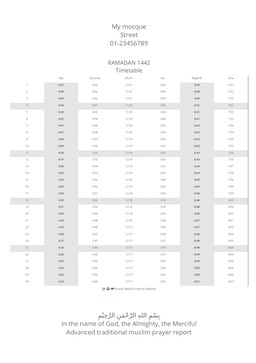
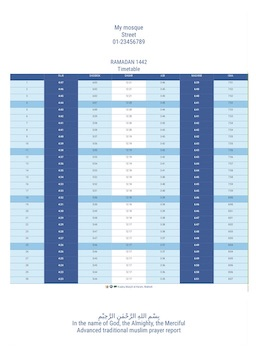
APB-242 changed default themes, day 10001, month 20001 and 20006 and 20001 switched places

diff --git a/apps/app2/css/app_report.css b/apps/app2/css/app_report.css
@@ -600,6 +600,9 @@
 	line-height: 3.75pt;
 }
 /*theme specific month fontsize and lineheight fixes*/
+#prayertable_year .theme_month_20001 #timetable {
+	line-height: 3pt !important;
+}
 #prayertable_year .theme_month_20002 #timetable {
 	line-height: 3pt !important;
 }
@@ -610,9 +613,6 @@
 	font-size: 2pt !important;
 }
 #prayertable_year .theme_month_20005 #timetable {
-	line-height: 3pt !important;
-}
-#prayertable_year .theme_month_20006 #timetable {
 	line-height: 3pt !important;
 }
 #prayertable_year .theme_month_20007 #timetable {
@@ -808,66 +808,96 @@
 /*THEME 1*/
 /*DISPLAY FONT*/
 .theme_month_20001.font_arabic_sans_kufi .display_font{
-	font-family: var(--global_font_arabic_sans_kufi);
+	font-family: 'Roboto Condensed', var(--global_font_arabic_sans_kufi);
 }
 .theme_month_20001.font_arabic_kufi .display_font{
-	font-family: var(--global_font_arabic_kufi);
+	font-family: 'Roboto Condensed', var(--global_font_arabic_kufi);
 }
 .theme_month_20001.font_arabic_nashk .display_font{
-	font-family: var(--global_font_arabic_nashk);
+	font-family: 'Roboto Condensed', var(--global_font_arabic_nashk);
 }
 .theme_month_20001.font_arabic_nastaliq .display_font{
-	font-family: var(--global_font_arabic_nastaliq);
+	font-family: 'Roboto Condensed', var(--global_font_arabic_nastaliq);
 }
 .theme_month_20001.font_arabic_ui .display_font{
-	font-family: var(--global_font_arabic_ui);
+	font-family: 'Roboto Condensed', var(--global_font_arabic_ui);
 }
 /*DEFAULT FONT*/
 .theme_month_20001.font_arabic_sans_kufi .default_font{
-	font-family: var(--global_font_arabic_sans_kufi);
+	font-family: 'Roboto Condensed', var(--global_font_arabic_sans_kufi);
 }
 .theme_month_20001.font_arabic_kufi .default_font{
-	font-family: var(--global_font_arabic_kufi);
+	font-family: 'Roboto Condensed', var(--global_font_arabic_kufi);
 }
 .theme_month_20001.font_arabic_nashk .default_font{
-	font-family: var(--global_font_arabic_nashk);
+	font-family: 'Roboto Condensed', var(--global_font_arabic_nashk);
 }
 .theme_month_20001.font_arabic_nastaliq .default_font{
-	font-family: var(--global_font_arabic_nastaliq);
+	font-family: 'Roboto Condensed', var(--global_font_arabic_nastaliq);
 }
 .theme_month_20001.font_arabic_ui .default_font{
-	font-family: var(--global_font_arabic_ui);
+	font-family: 'Roboto Condensed', var(--global_font_arabic_ui);
 }
 .theme_month_20001 {
 	background-color: white;
 	color: #404040;
 }
-/*Timetable*/
-.theme_month_20001 #timetable{
-	border : 0px !important;
+.theme_month_20001 #prayertable_month_header {
+	color: #2a5d99;
+}
+.theme_month_20001 #timetable_header {
+	color: #2a5d99;
+}
+.theme_month_20001 #timetable .prayertable_month_header-row .timetable_col_header {
+	background-color: #2a5d99 !important;
+	color: white !important;
+	text-transform: uppercase;
+}
+.theme_month_20001 .timetable_row:last-child {
+	border-bottom: none
+}
+.theme_month_20001 #timetable .timetable_col_header {
+	border-bottom: 0.5px solid #2a5d99;
+}
+.theme_month_20001 #timetable .timetable_col {
+	border-bottom: 0.5px solid #2a5d99;
 }
 .theme_month_20001 .timetable_row.prayertable_month_highlight_row .timetable_col {
-	background-color: #e6e6e6;
+	background-color: #7bcae9 !important;
 }
 .theme_month_20001 .timetable_row.prayertable_month_day_01-10-row .timetable_col {
-	background-color: #e6e6e6 !important;
+	background-color: #c9edf7 !important;
 }
 .theme_month_20001 .timetable_row.prayertable_month_day_11-20-row .timetable_col {
 	background-color: #FFF !important;
 }
 .theme_month_20001 .timetable_row.prayertable_month_day_21-30-row .timetable_col {
-	background-color: #e6e6e6 !important;
+	background-color: #7bcae9 !important;
 }
-/*notes*/
 .theme_month_20001 #timetable .prayertable_month_notes {
 	background-color: white !important;
 }
-
+.theme_month_20001 #timetable .timetable_col:nth-child(odd) {
+	background-color: #c9edf7;
+	color: #404040;
+}
+.theme_month_20001 #timetable .timetable_col:nth-child(even) {
+	background-color: #FFF;
+}
 .theme_month_20001 #timetable .timetable_col.prayertable_fast_start {
-	background-color: #e6e6e6 !important;
+	background-color: #2a5d99 !important;
+	color: white;
 }
 .theme_month_20001 #timetable .timetable_col.prayertable_fast_end {
-	background-color: #e6e6e6 !important;
+	background-color: #2a5d99 !important;
+	color: white;
+}
+.theme_month_20001 #timetable_footer {
+	color: #2a5d99;
+}
+/*Footer*/
+.theme_month_20001 #prayertable_month_footer {
+	color : #2a5d99;
 }
 
 /*THEME 2*/
@@ -1223,96 +1253,66 @@
 /*THEME 6*/
 /*DISPLAY FONT*/
 .theme_month_20006.font_arabic_sans_kufi .display_font{
-	font-family: 'Roboto Condensed', var(--global_font_arabic_sans_kufi);
+	font-family: var(--global_font_arabic_sans_kufi);
 }
 .theme_month_20006.font_arabic_kufi .display_font{
-	font-family: 'Roboto Condensed', var(--global_font_arabic_kufi);
+	font-family: var(--global_font_arabic_kufi);
 }
 .theme_month_20006.font_arabic_nashk .display_font{
-	font-family: 'Roboto Condensed', var(--global_font_arabic_nashk);
+	font-family: var(--global_font_arabic_nashk);
 }
 .theme_month_20006.font_arabic_nastaliq .display_font{
-	font-family: 'Roboto Condensed', var(--global_font_arabic_nastaliq);
+	font-family: var(--global_font_arabic_nastaliq);
 }
 .theme_month_20006.font_arabic_ui .display_font{
-	font-family: 'Roboto Condensed', var(--global_font_arabic_ui);
+	font-family: var(--global_font_arabic_ui);
 }
 /*DEFAULT FONT*/
 .theme_month_20006.font_arabic_sans_kufi .default_font{
-	font-family: 'Roboto Condensed', var(--global_font_arabic_sans_kufi);
+	font-family: var(--global_font_arabic_sans_kufi);
 }
 .theme_month_20006.font_arabic_kufi .default_font{
-	font-family: 'Roboto Condensed', var(--global_font_arabic_kufi);
+	font-family: var(--global_font_arabic_kufi);
 }
 .theme_month_20006.font_arabic_nashk .default_font{
-	font-family: 'Roboto Condensed', var(--global_font_arabic_nashk);
+	font-family: var(--global_font_arabic_nashk);
 }
 .theme_month_20006.font_arabic_nastaliq .default_font{
-	font-family: 'Roboto Condensed', var(--global_font_arabic_nastaliq);
+	font-family: var(--global_font_arabic_nastaliq);
 }
 .theme_month_20006.font_arabic_ui .default_font{
-	font-family: 'Roboto Condensed', var(--global_font_arabic_ui);
+	font-family: var(--global_font_arabic_ui);
 }
 .theme_month_20006 {
 	background-color: white;
 	color: #404040;
 }
-.theme_month_20006 #prayertable_month_header {
-	color: #2a5d99;
-}
-.theme_month_20006 #timetable_header {
-	color: #2a5d99;
-}
-.theme_month_20006 #timetable .prayertable_month_header-row .timetable_col_header {
-	background-color: #2a5d99 !important;
-	color: white !important;
-	text-transform: uppercase;
-}
-.theme_month_20006 .timetable_row:last-child {
-	border-bottom: none
-}
-.theme_month_20006 #timetable .timetable_col_header {
-	border-bottom: 0.5px solid #2a5d99;
-}
-.theme_month_20006 #timetable .timetable_col {
-	border-bottom: 0.5px solid #2a5d99;
+/*Timetable*/
+.theme_month_20006 #timetable{
+	border : 0px !important;
 }
 .theme_month_20006 .timetable_row.prayertable_month_highlight_row .timetable_col {
-	background-color: #7bcae9 !important;
+	background-color: #e6e6e6;
 }
 .theme_month_20006 .timetable_row.prayertable_month_day_01-10-row .timetable_col {
-	background-color: #c9edf7 !important;
+	background-color: #e6e6e6 !important;
 }
 .theme_month_20006 .timetable_row.prayertable_month_day_11-20-row .timetable_col {
 	background-color: #FFF !important;
 }
 .theme_month_20006 .timetable_row.prayertable_month_day_21-30-row .timetable_col {
-	background-color: #7bcae9 !important;
+	background-color: #e6e6e6 !important;
 }
+/*notes*/
 .theme_month_20006 #timetable .prayertable_month_notes {
 	background-color: white !important;
 }
-.theme_month_20006 #timetable .timetable_col:nth-child(odd) {
-	background-color: #c9edf7;
-	color: #404040;
-}
-.theme_month_20006 #timetable .timetable_col:nth-child(even) {
-	background-color: #FFF;
-}
+
 .theme_month_20006 #timetable .timetable_col.prayertable_fast_start {
-	background-color: #2a5d99 !important;
-	color: white;
+	background-color: #e6e6e6 !important;
 }
 .theme_month_20006 #timetable .timetable_col.prayertable_fast_end {
-	background-color: #2a5d99 !important;
-	color: white;
-}
-.theme_month_20006 #timetable_footer {
-	color: #2a5d99;
-}
-/*Footer*/
-.theme_month_20006 #prayertable_month_footer {
-	color : #2a5d99;
+	background-color: #e6e6e6 !important;
 }
 
 /*THEME 7*/
